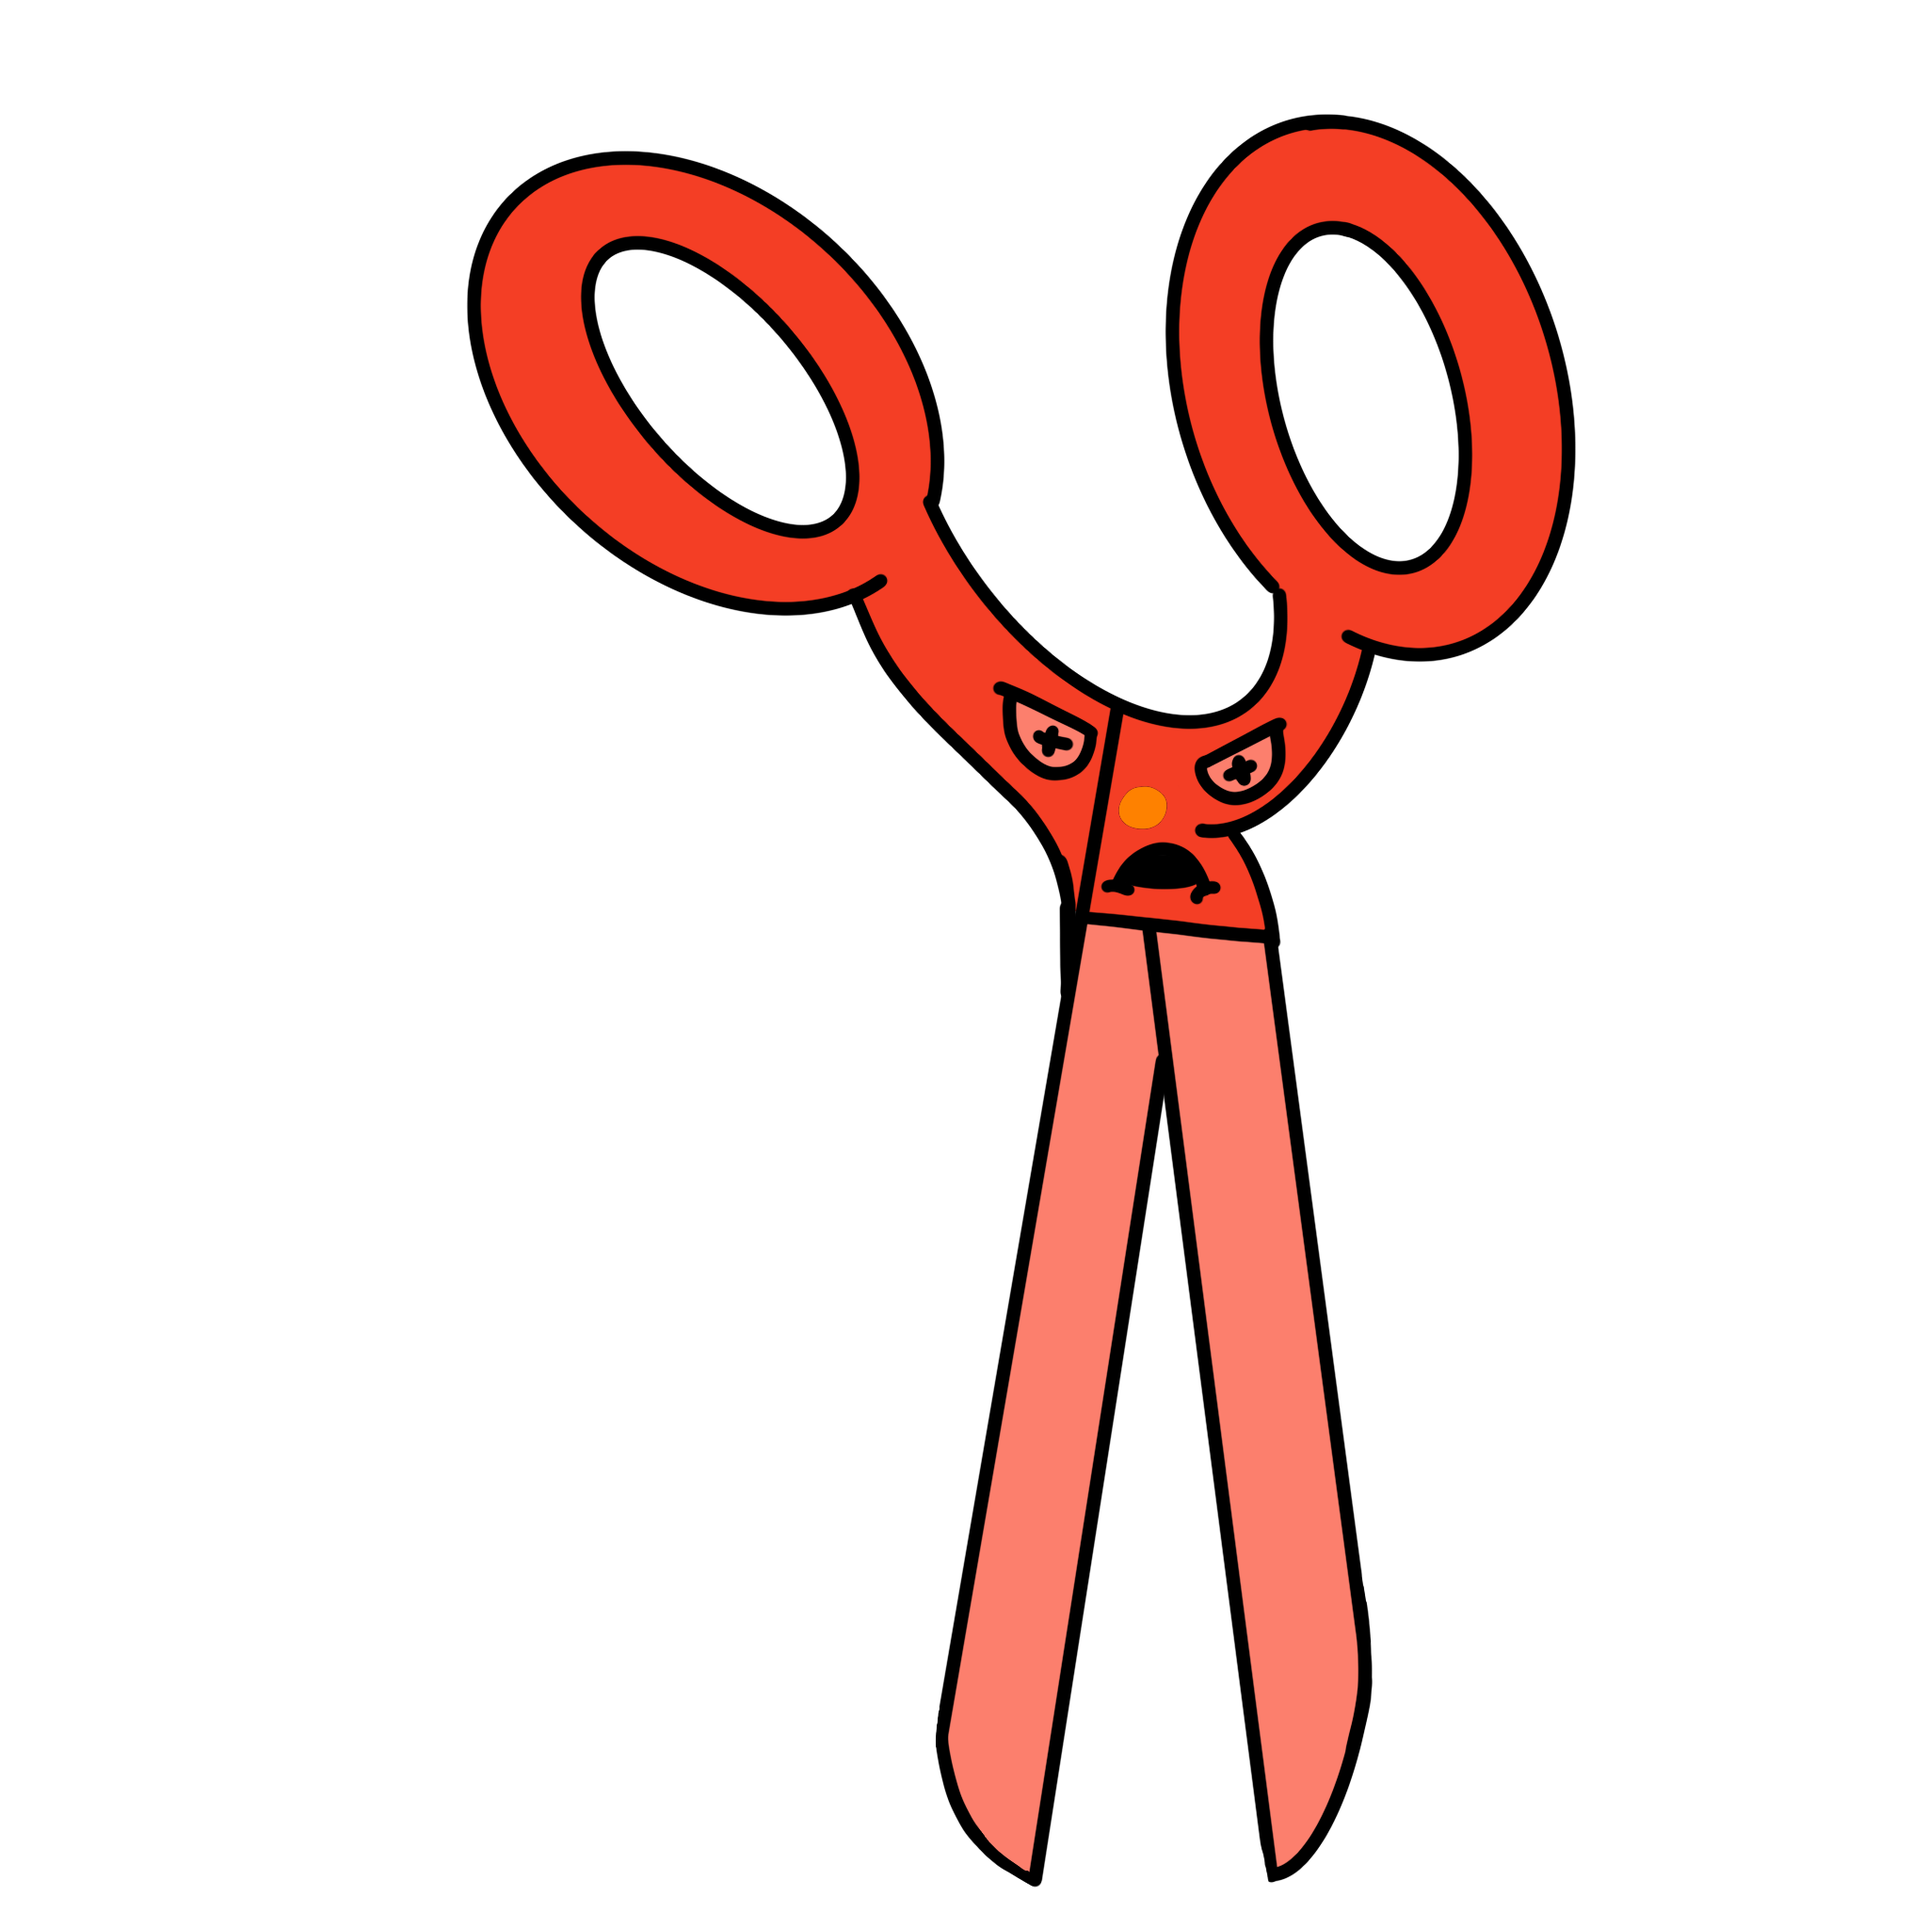
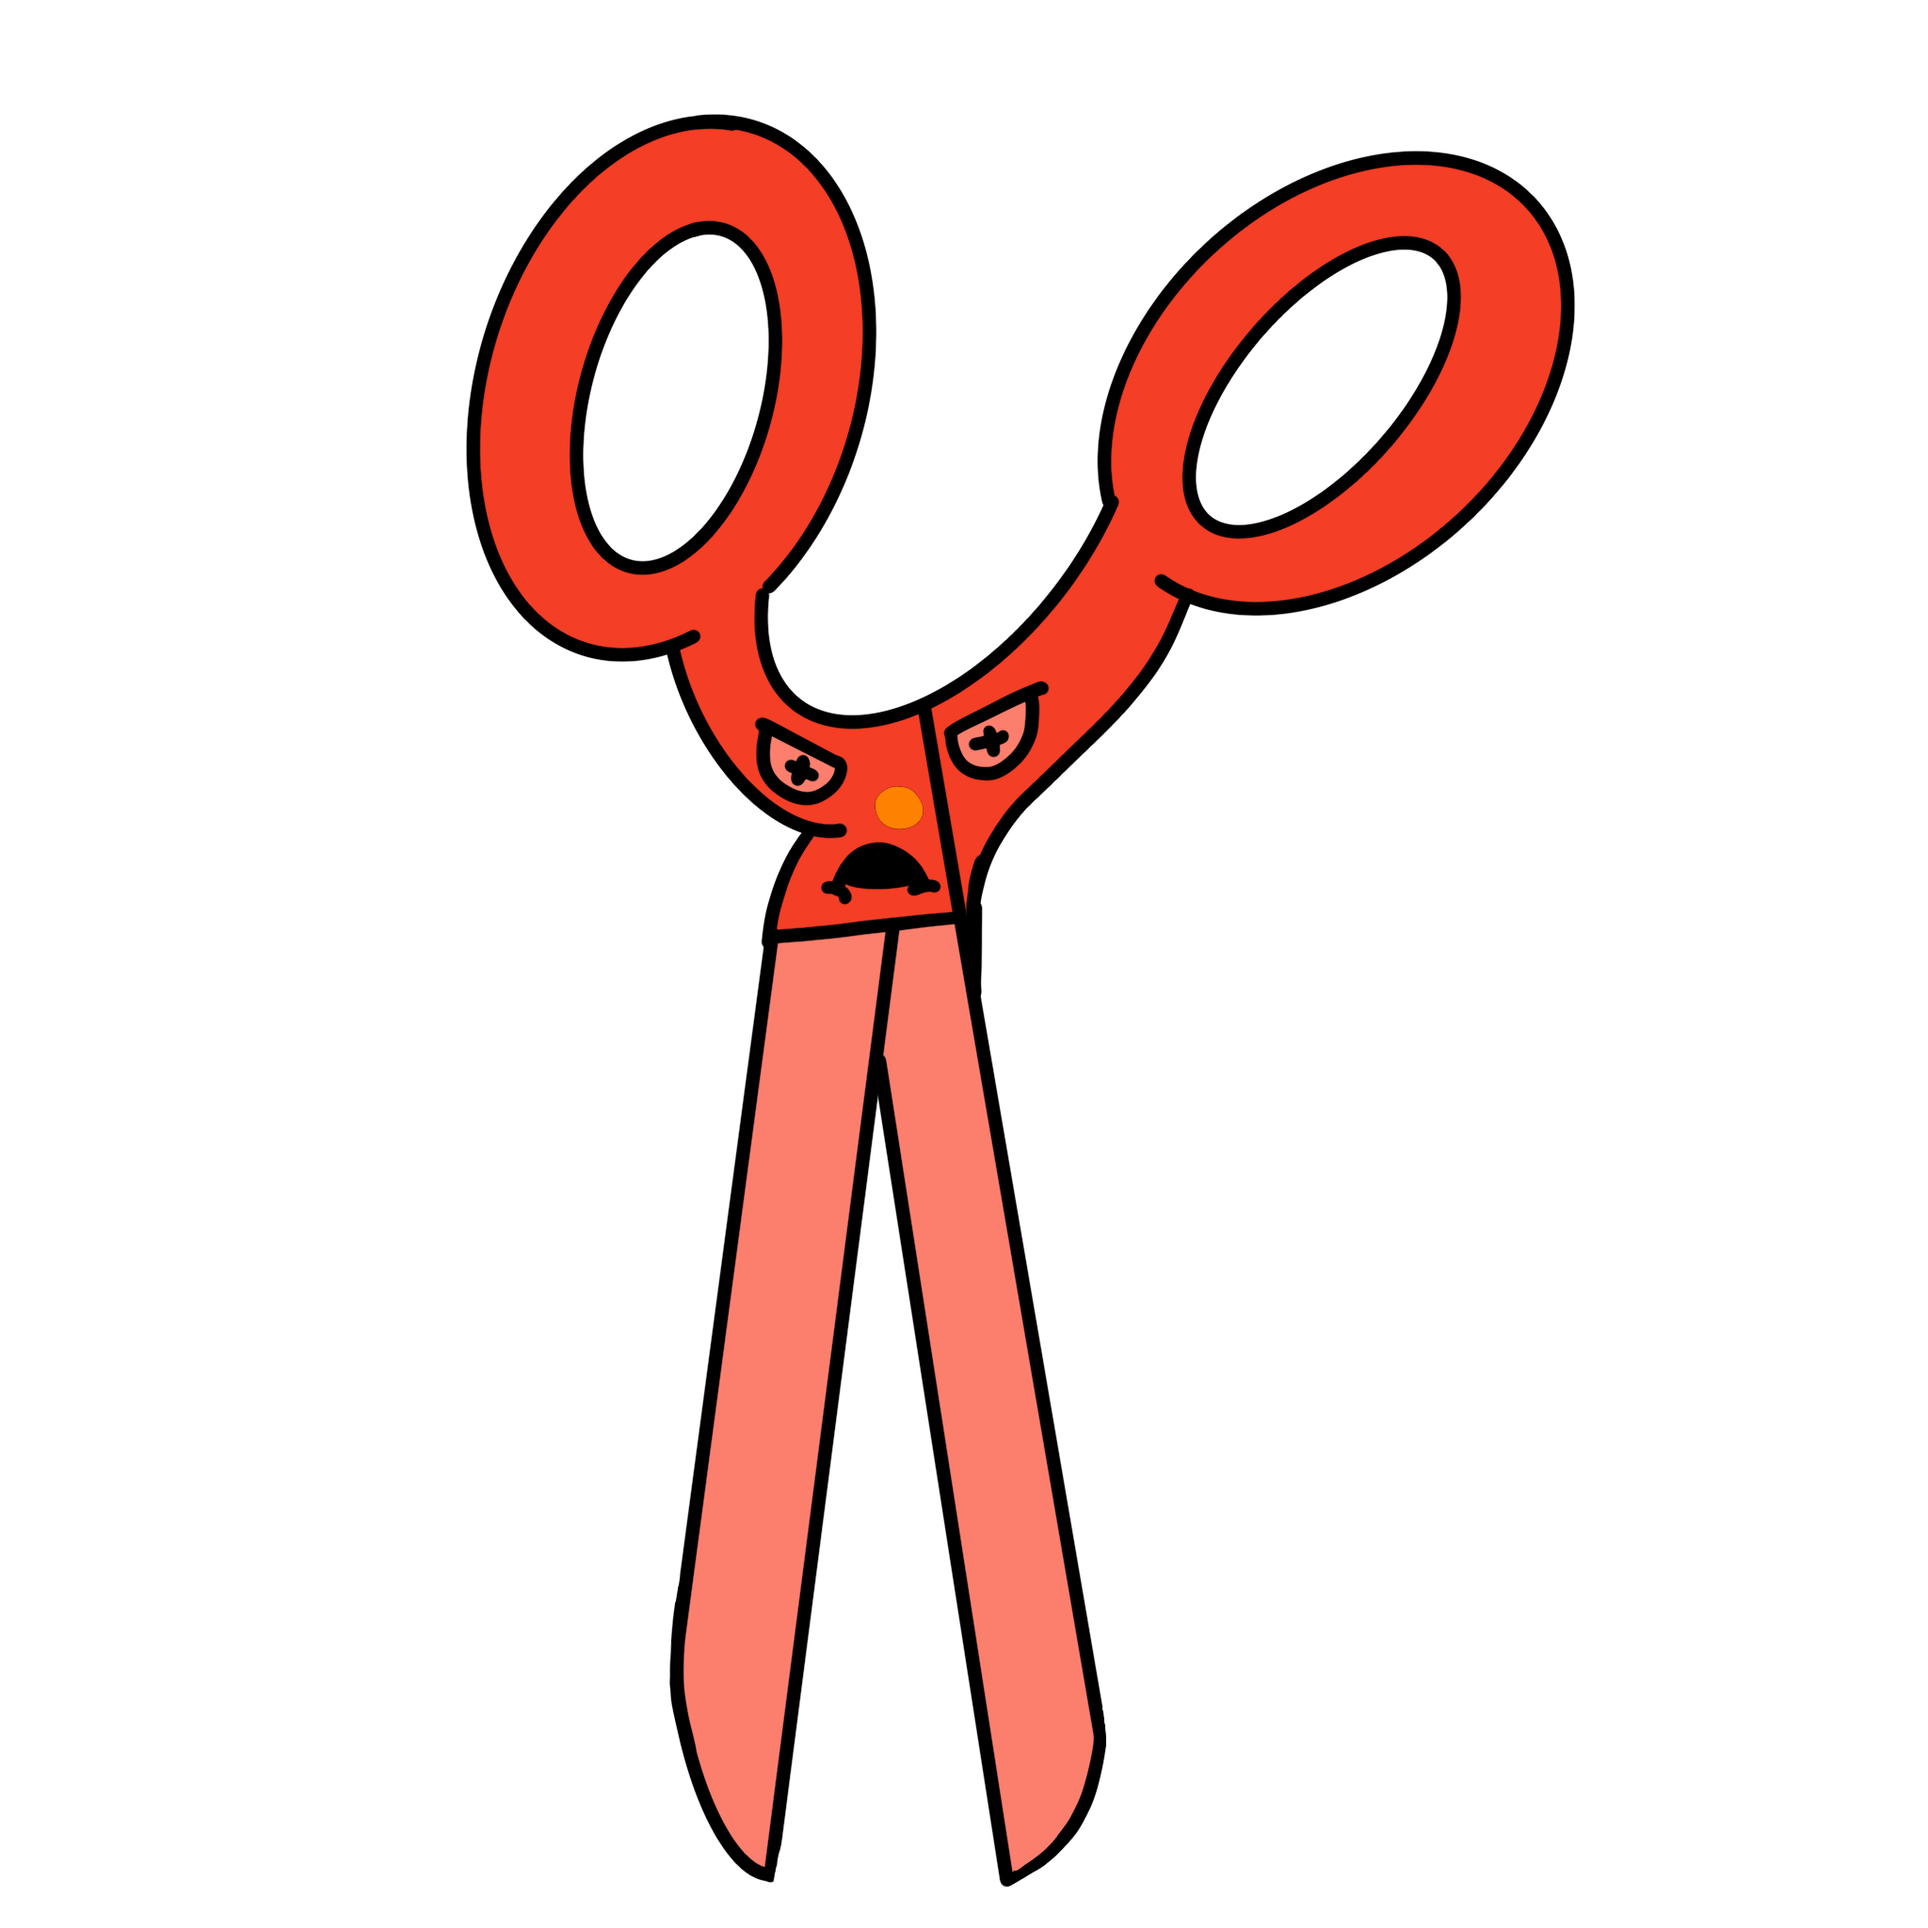
Correct bad scissors and styling

Changed region(s): [[0.2188, 0.0625, 0.8438, 0.9688]]

diff --git a/index.html b/index.html
@@ -29,8 +29,12 @@
                     <h3>Matchup</h3>
                     <p>(You vs. Your Enemy)</p>
                     <div class="matchup">
-                        <div class="user-fighter"></div>
-                        <div class="comp-fighter"></div>
+                        <img src="images/Good rock.png" alt="Good Rock">
+                        <img src="images/Bad rock.png" alt="Bad Rock">
+                        <img src="images/Good paper.png" alt="Good Paper">
+                        <img src="images/Bad paper.png" alt="Bad Paper">
+                        <img src="images/Good scissors.png" alt="Good Scissors">
+                        <img src="images/Bad scissors.png" alt="Bad Scissors">
                     </div>
                 </div>
             </div>

diff --git a/styles.css b/styles.css
@@ -69,7 +69,11 @@ h3 {
 .matchup {
     display: flex;
     justify-content: space-between;
-    align-items: center;
+    flex-wrap: wrap;
+}
+
+.matchup img {
+    width: 150px;
 }
 
 .results-container {
@@ -116,7 +120,7 @@ h3 {
 
 footer {
     margin-top: auto;
-    width: calc(100vw - 40px);
+    width: calc(100vw - 60px);
     display: flex;
     justify-content: space-between;
     padding: 20px;
